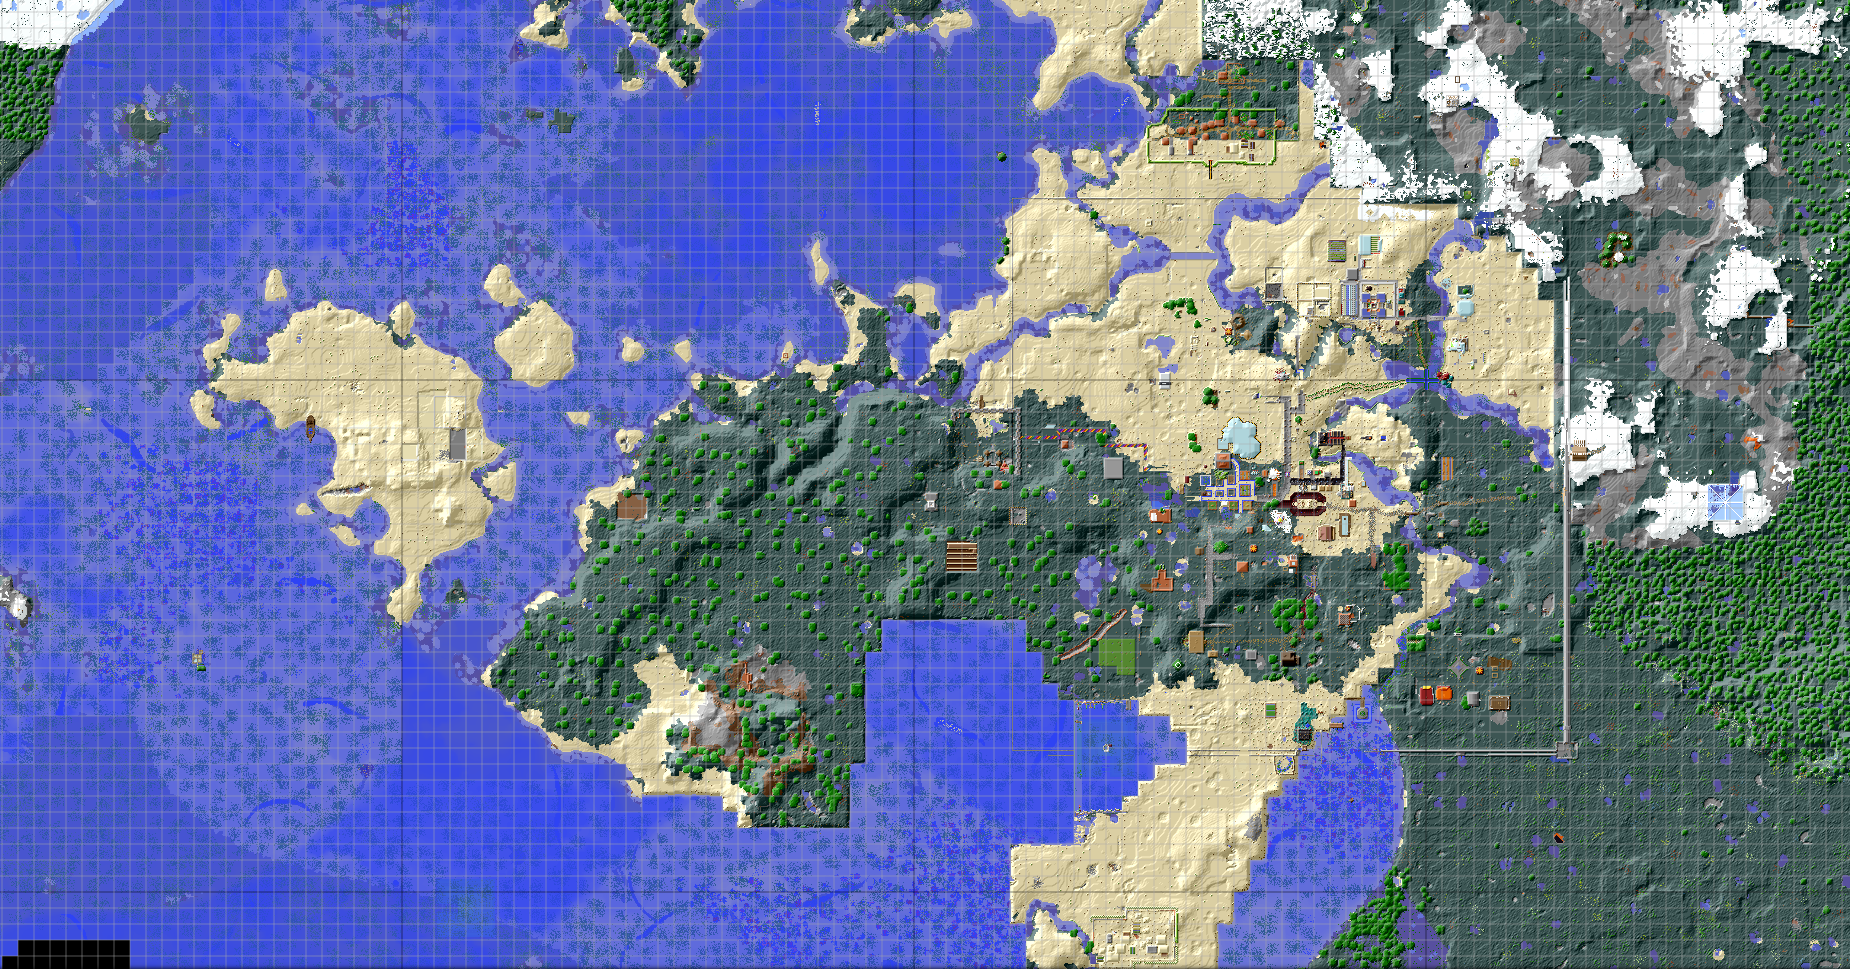
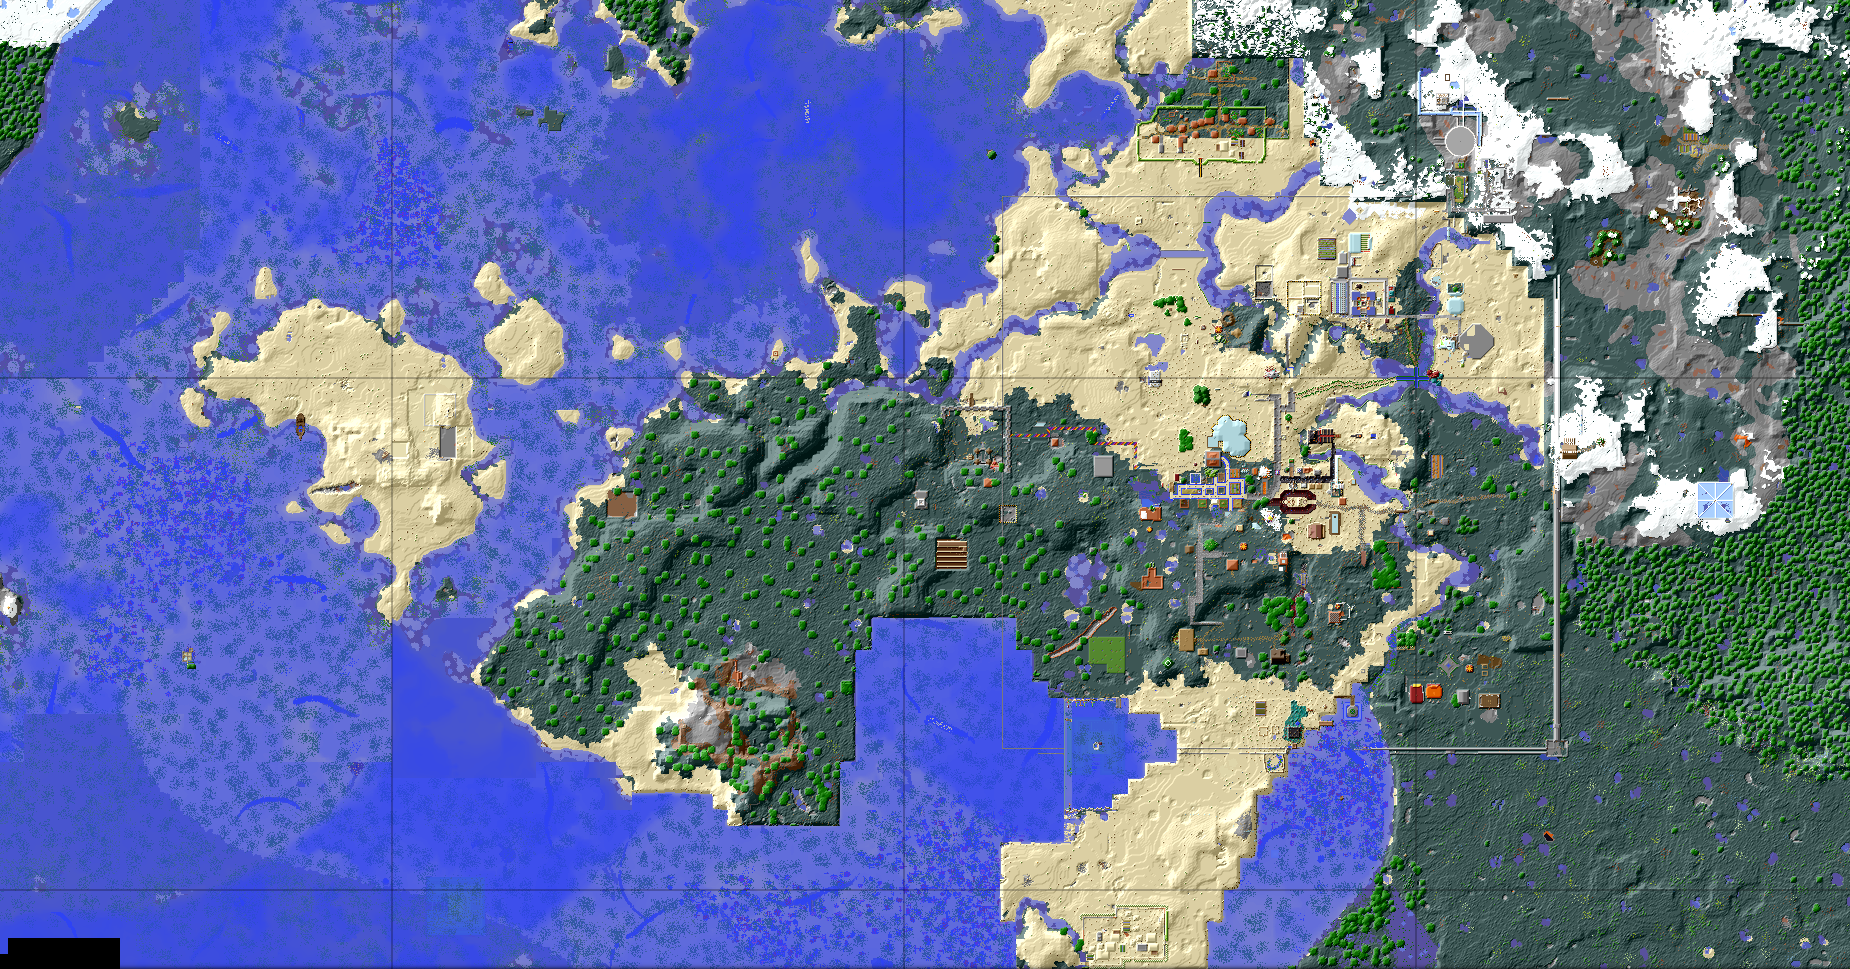
adwda
dawdawd

diff --git a/smpbot.py b/smpbot.py
@@ -98,10 +98,11 @@ async def map(ctx):
                 time.sleep(2)
                 pg.hotkey('win','up')
                 pg.hotkey('ctrl','g')
-                pg.write('-482')
+                pg.write('-472')
                 pg.hotkey('tab')
-                pg.write('98')
+                pg.write('100')
                 pg.hotkey('enter')
+                pg.hotkey('ctrl','t')
 ##                await ctx.send("Fullscreened and grabbed world coords for screenshot from MCA visualization")
 ##                await ctx.send("Say :cheese:!")
                 time.sleep(3)
@@ -135,4 +136,4 @@ async def on_message(message):
                 if not message.author.bot:
                         await channel.send('hi')"""
 
-client.run("NDAzMjQ4NDYxNzMyMTE4NTI4.Wl-QZQ._ByP1XRZgE2wuYkUB0VKpE0xl4s")
+client.run("NDAzMjQ4NDYxNzMyMTE4NTI4.Wl-QZQ.sDYSFJo-Sp1VltfOKlVGSnXs55s")
